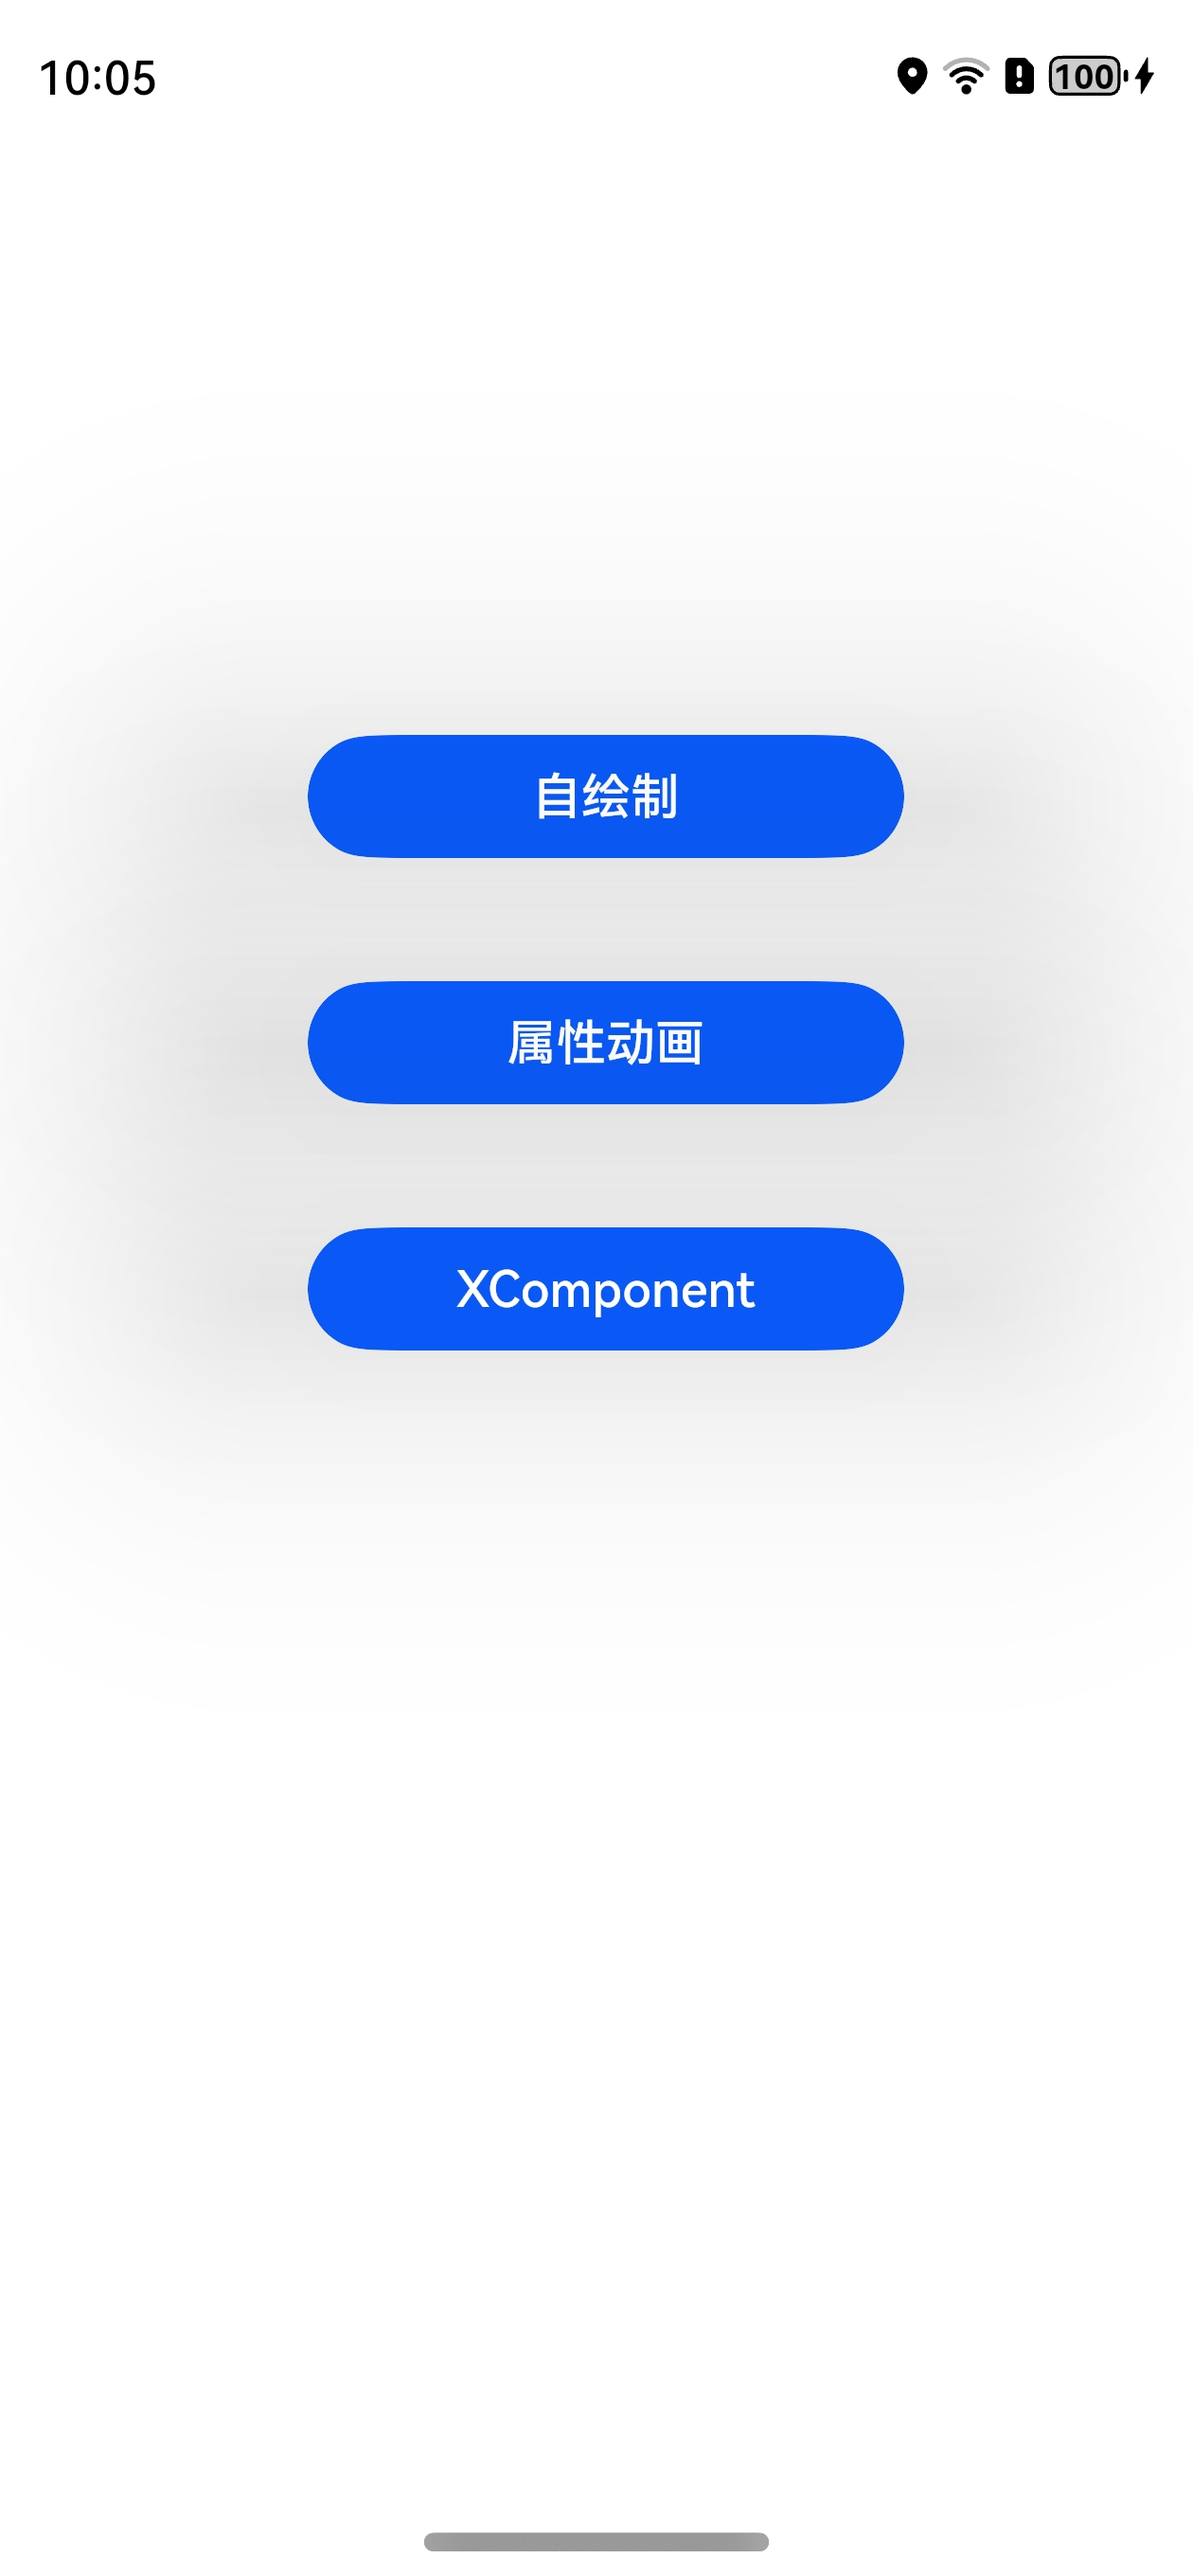
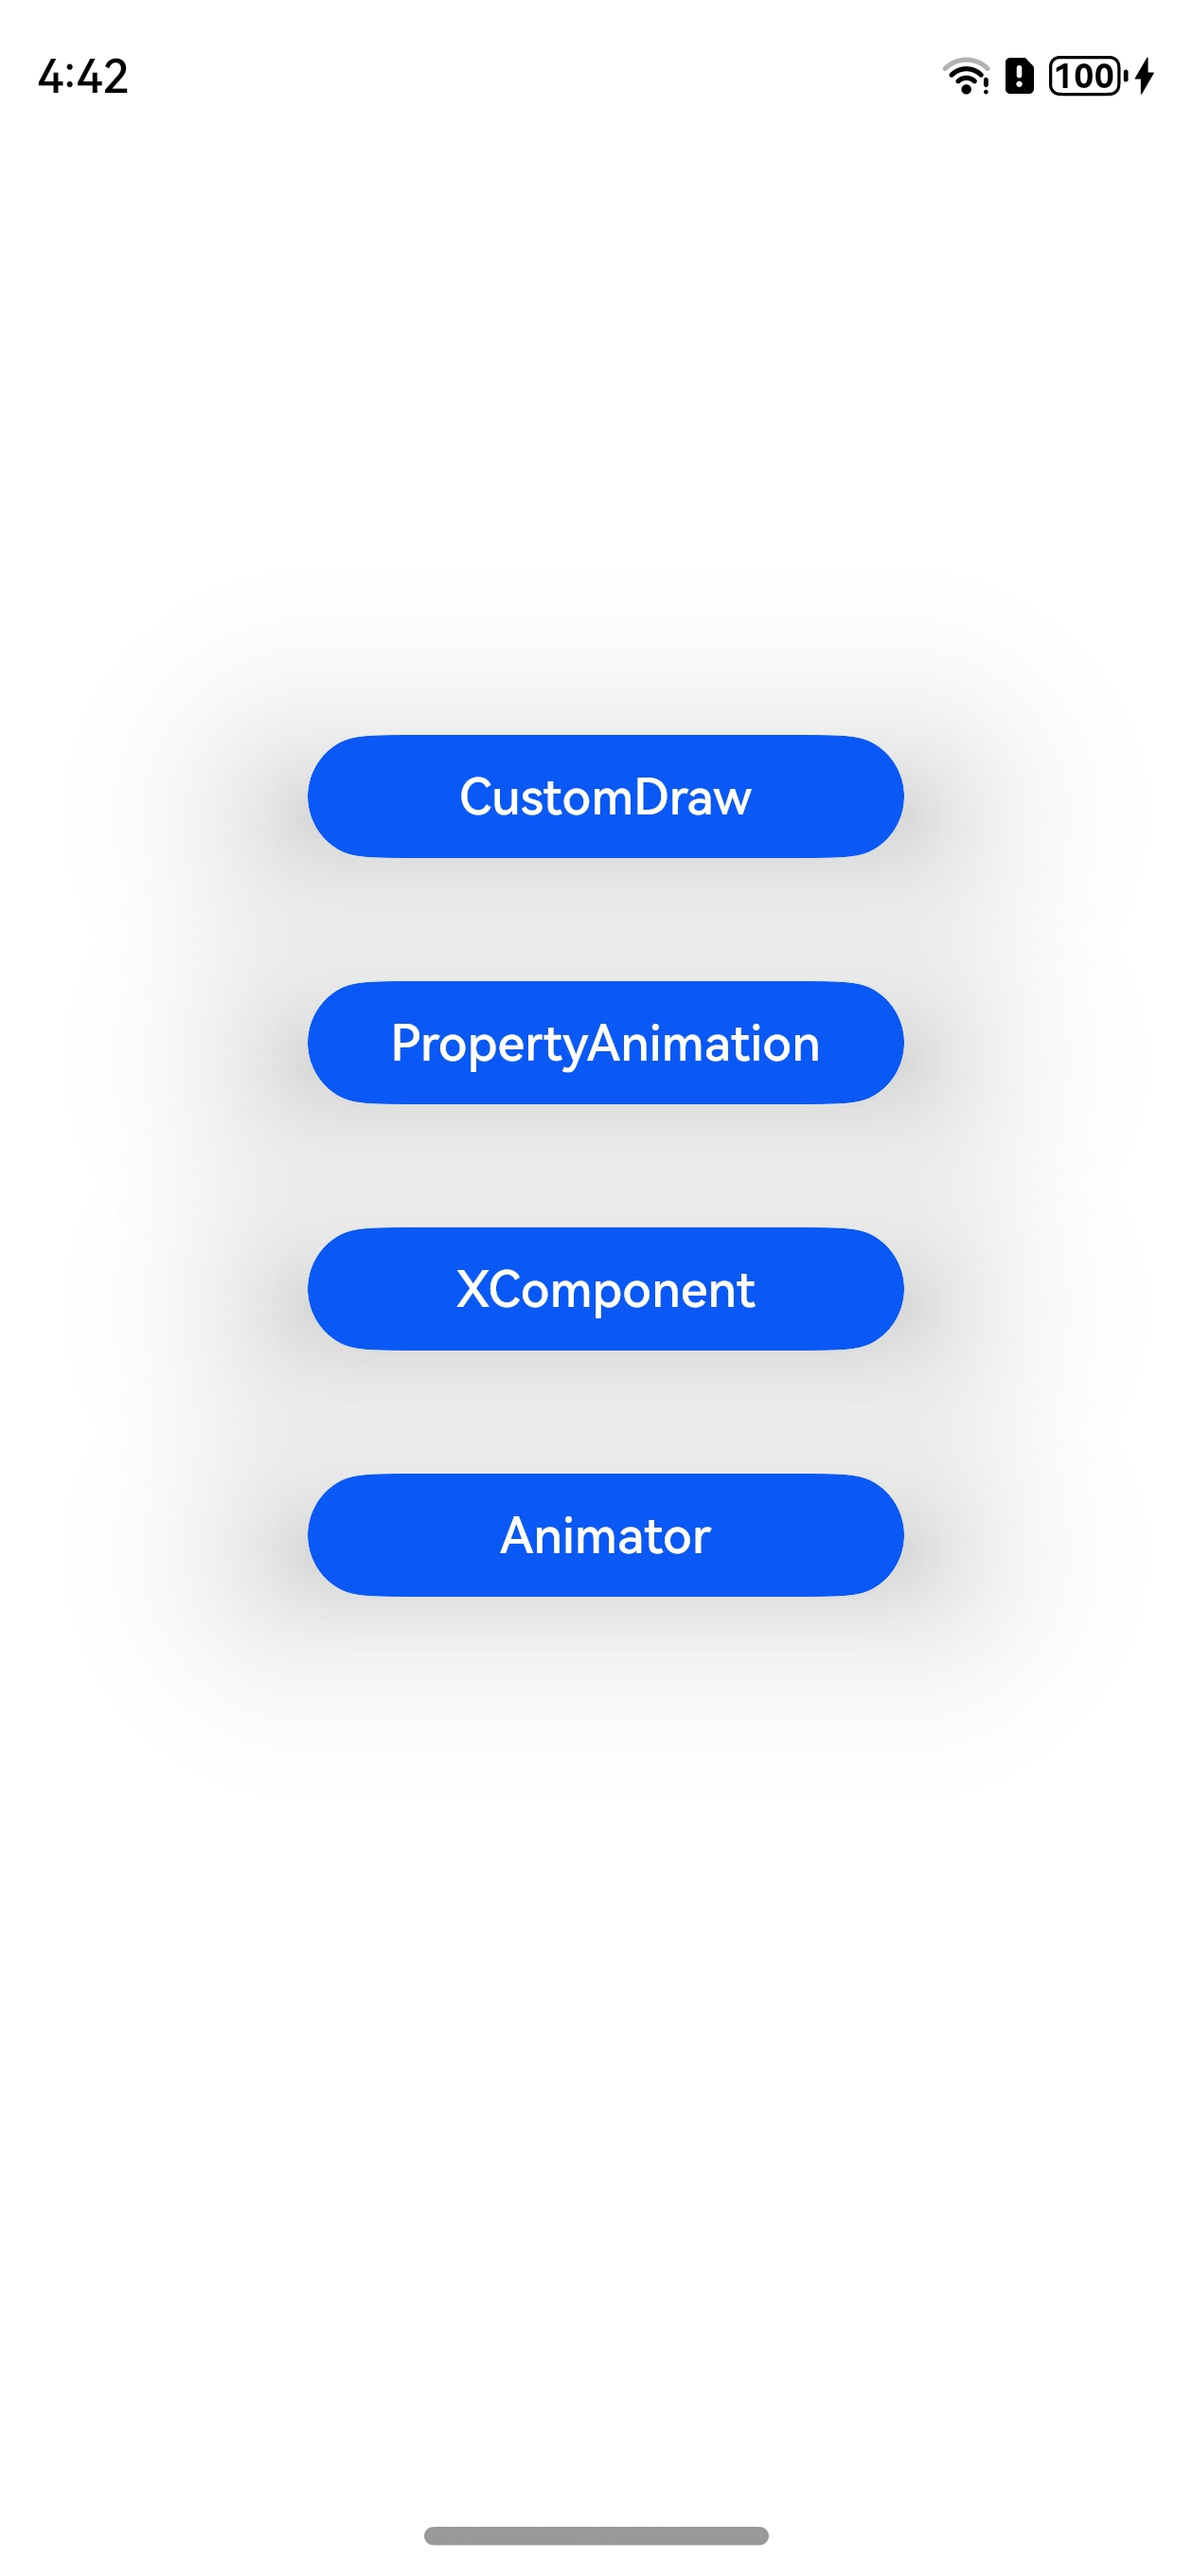
Description:Animator增加设置期望帧率参数，接入DisplaySync分级管控 Feature or Bugfix:Feature

diff --git a/code/BasicFeature/Graphics/DisplaySync/Readme.md b/code/BasicFeature/Graphics/DisplaySync/Readme.md
@@ -5,17 +5,19 @@
 本示例通过DisplaySync分级管控功能对自绘制、属性动画、XComponent的绘制内容设置开发者所期望的帧率
 ### 效果预览
 
-|初始页|自绘制|属性动画|XComponent|
-|--------------------------------|--------------------------------|--------------------------------|--------------------------------|
-| <img src="./screenshots/device/initPage.jpg" width="100%" /> | <img src="./screenshots/device/customDraw.jpg" width="100%"/> | <img src="./screenshots/device/propertyAnimation.jpg" width="100%" /> | <img src="./screenshots/device/xcomponent.jpg" width="80%"/> |
+|初始页|自绘制|属性动画|XComponent|Animator|
+|--------------------------------|--------------------------------|--------------------------------|--------------------------------|--------------------------------|
+| <img src="./screenshots/device/initPage.jpg" width="360" /> | <img src="./screenshots/device/customDraw.jpg" width="360"/> | <img src="./screenshots/device/propertyAnimation.jpg" width="360" /> | <img src="./screenshots/device/xcomponent.jpg" width="360"/> |<img src="./screenshots/device/animator.jpg" width="360"/> |
 
 使用说明
 
-1.在初始页面点击“**自绘制**”，进入自绘制页面，点击“**Start**”，数字“**30**”按照30Hz帧率放大缩小，数字“**60**”按照60Hz帧率放大缩小；点击“**Stop**”绘制停止；点击“**Back**”返回初始页面
+1.在初始页面点击“**CustomDraw**”，进入自绘制页面，点击“**Start**”，数字“**30**”按照30Hz帧率放大缩小，数字“**60**”按照60Hz帧率放大缩小；点击“**Stop**”绘制停止；点击“**Back**”返回初始页面
 
-2.在初始页面点击“**属性动画**”，进入属性动画页面，点击“**Start**”，三个方块分别按照30Hz、40Hz、60Hz移动；点击“**Back**”返回初始页面
+2.在初始页面点击“**PropertyAnimation**”，进入属性动画页面，点击“**Start**”，三个方块分别按照30Hz、40Hz、60Hz移动；点击“**Back**”返回初始页面
 
 3.在初始页面点击“**XComponent**”，进入属性动画页面，点击“**Start**”，两个方块分别按照30Hz、120Hz移动；点击“**Stop**”动画停止；点击“**Back**”返回初始页面
+
+4.在初始页面点击“**Animator**”，进入Animator动画页面，先点击“**Create**”，再点击“**Play**”三个方块分别按照10Hz、30Hz、60Hz变大；点击“**Back**”返回初始页面
 
 ### 工程目录
 ```
@@ -41,7 +43,8 @@
 │  │  |  ├──Index.ets                           // 初始页面
 │  │  |  ├──CustomDrawDisplaySync.ets           // 自绘制页面
 │  │  |  ├──PropertyAnimationDisplaySync.ets    // 属性动画页面
-│  │  |  └──XComponentDisplaySync.ets           // XComponent页面
+│  │  |  ├──XComponentDisplaySync.ets           // XComponent页面
+|  |  |  └──AnimatorDisplaySync.ets             // Animator动画
 │  │  ├──utils                                  // 工具类
 |  ├──resources         			                  // 资源文件目录
 ```
@@ -68,7 +71,8 @@
       | 新增动画属性 | 描述 |
       | -------- | -------- |
       | expectedFrameRateRange | animation和animateTo接口的动画属性参数中可选配置expectedFrameRateRange参数 |
-* XComponet：通过在IDE中的Native c++ 工程，在c++代码中定义对外接口为register和unregister，并调用新增的CAPI接口,可在页面上使用drawing根据设定的期望帧率来绘制
+
+* XComponent：通过在IDE中的Native c++ 工程，在c++代码中定义对外接口为register和unregister，并调用新增的CAPI接口,可在页面上使用drawing根据设定的期望帧率来绘制
     * 涉及到的相关接口([CAPI接口链接](https://gitee.com/openharmony/docs/blob/master/zh-cn/application-dev/reference/apis-arkui/_o_h___native_x_component.md))：
 
       | 接口名 | 描述 | 
@@ -76,6 +80,13 @@
       | OH_NativeXComponent_SetExpectedFrameRateRange| 设置期望帧率范围 |
       | OH_NativeXComponent_RegisterOnFrameCallback  | 注册更新回调 |
       | OH_NativeXComponent_UnregisterOnFrameCallback  | 取消更新回调 |
+
+* 动画：通过[animator](https://gitee.com/openharmony/docs/blob/master/zh-cn/application-dev/reference/apis-arkui/js-apis-animator.md)新增的接口setExpectedFrameRateRange，设置期望的帧率范围，作用于动画场景
+    * 涉及到的相关接口：
+      
+      | 接口名 | 描述 |
+      | ----------------------------------------------------------------- | -------- |
+      | setExpectedFrameRateRange: (rateRange: ExpectedFrameRateRange): void | 设置期望的帧率范围 |
 
 
 ### 相关权限
@@ -90,7 +101,7 @@
 
 1.本示例仅支持在标准系统上运行，支持设备：RK3568。
 
-2.本示例为Stage模型，已适配API version 11版本SDK，SDK版本号(API Version 11 4.1.5.2),镜像版本号(4.1.5.2)。
+2.本示例为Stage模型，已适配API version 12版本SDK，SDK版本号(API Version 12 5.0.0.18),镜像版本号(5.0.0.18)。
 
 3.本示例需要使用DevEco Studio 版本号(3.1.0.501)及以上版本才可编译运行。
 
@@ -101,7 +112,7 @@
 ```
 git init
 git config core.sparsecheckout true
-echo code/SystemFeature/Graphics/DisplaySync/ > .git/info/sparse-checkout
+echo code/BasicFeature/Graphics/DisplaySync/ > .git/info/sparse-checkout
 git remote add origin https://gitee.com/openharmony/applications_app_samples.git
 git pull origin master
 

diff --git a/code/BasicFeature/Graphics/DisplaySync/ohosTest.md b/code/BasicFeature/Graphics/DisplaySync/ohosTest.md
@@ -1,0 +1,22 @@
+# DisplaySync测试用例归档
+
+## 用例表
+
+| 测试功能    | 预置条件         | 输入             | 预期输出                  | 是否自动 | 测试结果 |
+|---------|--------------|----------------|-----------------------|------|------|
+| 拉起应用    | 	设备正常运行      | 		             | 成功拉起应用                | 是    | Pass |
+| 主页展示    | 	设备正常运行      | 		             | 展示CustomDraw、PropertyAnimation、XComponent、Animator按钮 | 是    | Pass |
+| 主页按钮点击 | 	位于主页        | 	点击CustomDraw | 	跳转自绘制页面      | 是    | Pass |
+| 自绘制开始   | 	位于自绘制 | 点击Start   | 数字30、60分别按照30hz、60hz频率放大缩小          | 是    | Pass |
+| 自绘制停止  | 	位于自绘制 | 点击Stop           | 	数字30、60变化停止                 | 是    | Pass |
+| 自绘制返回主页  | 	位于自绘制        | 点击Back      | 	回到主页             | 是    | Pass |
+| 主页按钮点击  | 	位于主页        | 	点击PropertyAnimation | 	跳转属性动画页面      | 是    | Pass |
+| 属性动画开始  | 	位于属性动画页面    | 点击Start      | 	三个方块分别按照30hz、40hz、60hz频率来回移动            | 是    | Pass |
+| 属性动画返回主页    | 	位于属性动画页面    | 点击Back      | 	回到主页          | 是    | Pass |
+| 主页按钮点击    | 	位于主页    | 点击XComponent           | 	跳转XComponent页面                 | 是    | Pass |
+| XComponent开始  | 位于XComponent页面         | 点击Start       | 两个方块分别按照30hz、120hz频率来回移动            | 是    | pass |
+| XComponent停止  | 位于XComponent页面   | 点击Stop   | 两个方块移动停止              | 是    | pass |
+| XComponent返回主页  | 位于XComponent页面   | 点击Back       | 回到主页              | 是    | pass |
+| 主页按钮点击  | 位于主页   | 点击Animator    | 跳转Animator动画页面        | 是    | pass |
+| Animator动画开始  | 位于Animator页面   | 先点击Create再点击Play    |  三个方块分别按照10hz、30hz、60hz频率放大       | 是    | pass |
+| Animator返回主页  | 位于Animator页面   | 点击Back    | 回到主页        | 是    | pass |
